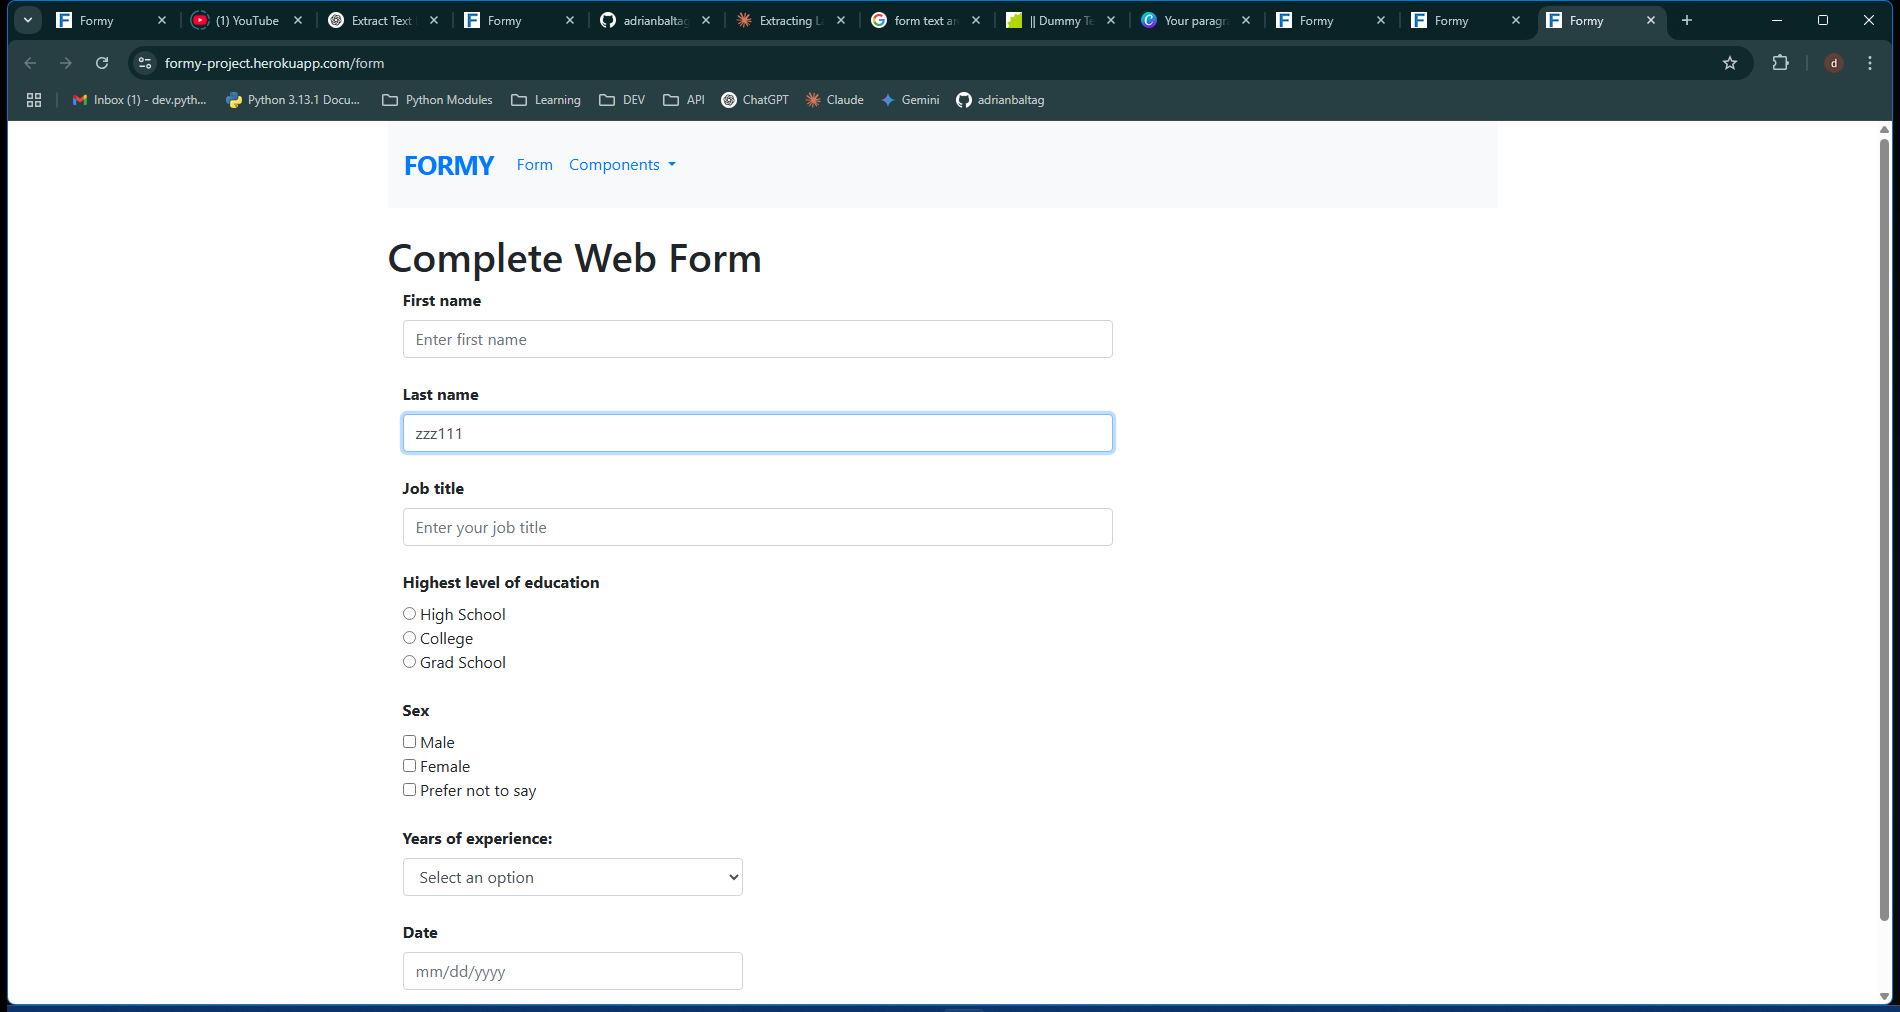
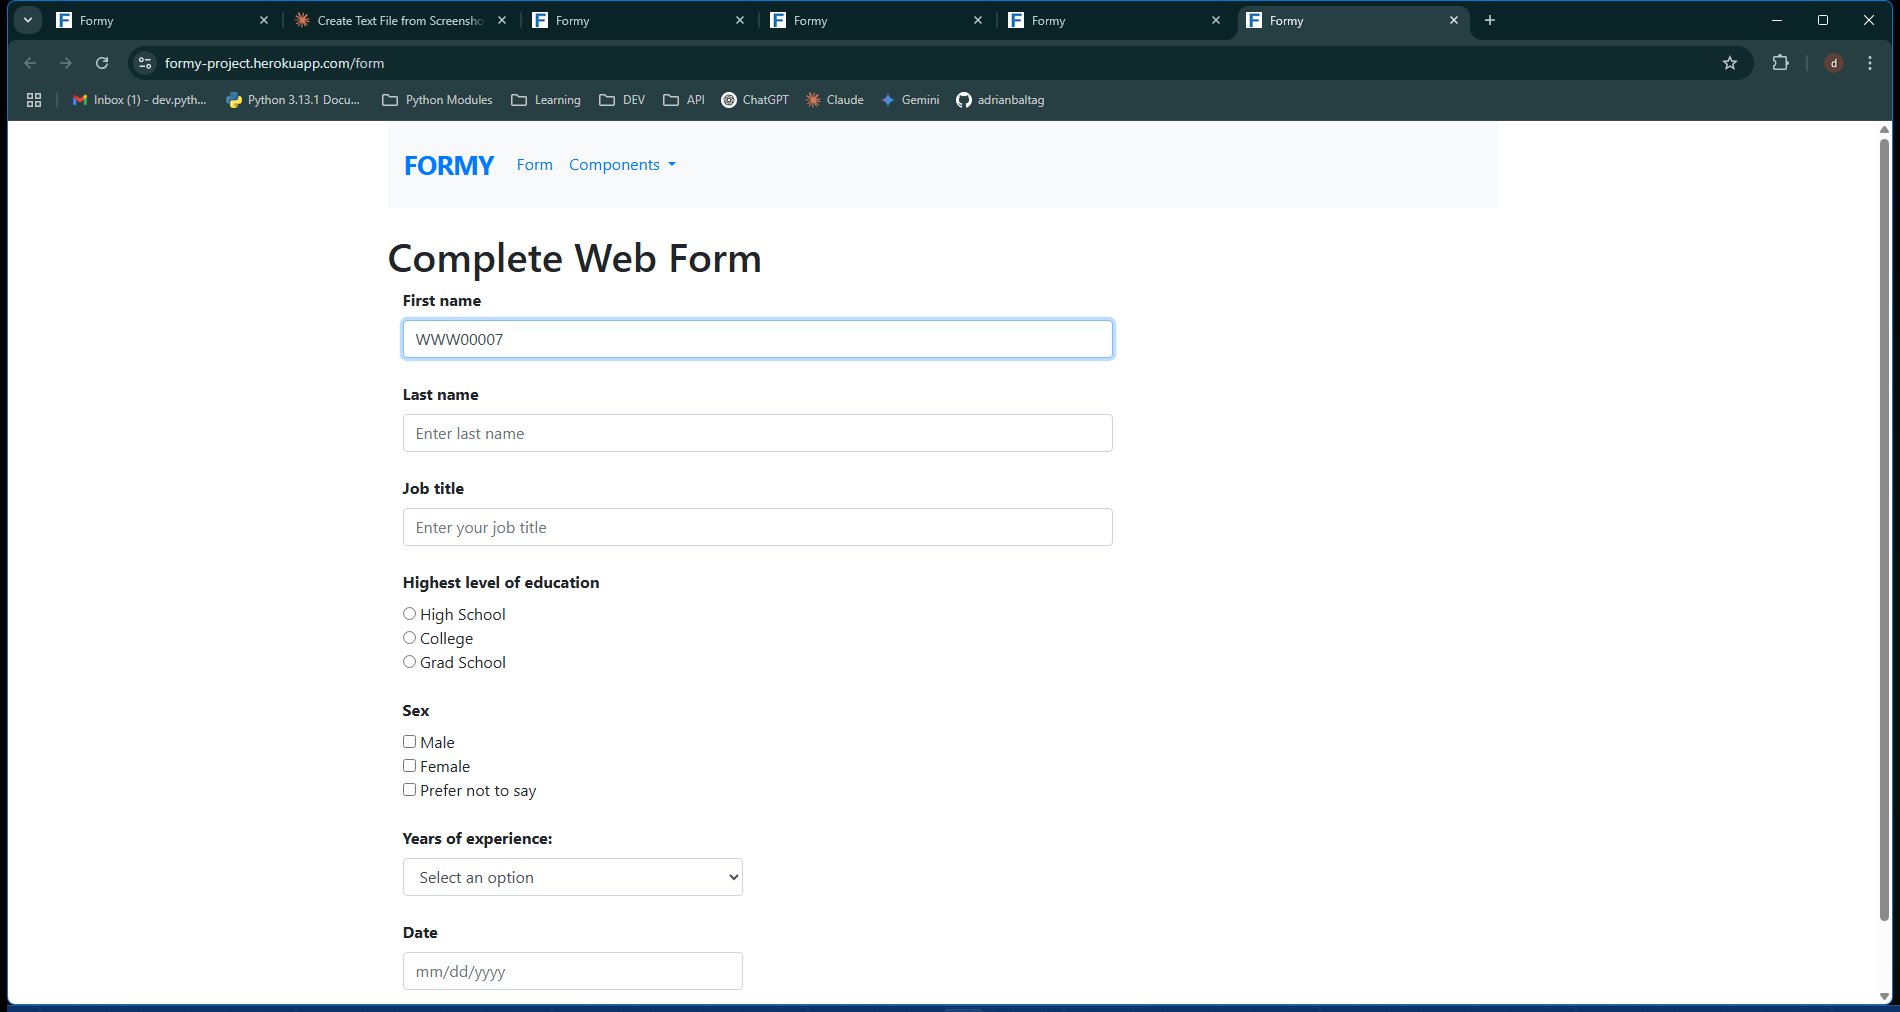
added save_dict_to_text, updated TODO.txt

diff --git a/src/my_package/utils/save_dict_to_text.py b/src/my_package/utils/save_dict_to_text.py
@@ -1,0 +1,152 @@
+# import logging
+# import os
+# from datetime import datetime
+
+
+# def save_dict_to_text(extracted_dict, filename=None):
+#     """
+#     Saves the extracted dictionary data to a text file in the txt_data folder on desktop.
+
+#     Args:
+#         extracted_dict (dict): Dictionary containing extracted data from read_image function
+#         filename (str, optional): Name for the text file. If None, uses timestamp.
+
+#     Returns:
+#         str: Path to the created text file or None if operation failed
+#     """
+#     # Define the keys to extract in the correct order
+#     keys = ["First name", "Last name", "Job title"]
+
+#     # Check if the dictionary has the required keys
+#     if not all(key in extracted_dict for key in keys):
+#         missing_keys = [key for key in keys if key not in extracted_dict]
+#         logging.error(f"Dictionary is missing required keys: {missing_keys}")
+#         return None
+
+#     # Create the txt_data folder on desktop if it doesn't exist
+#     desktop_path = os.path.join(os.path.expanduser("~"), "Desktop")
+#     txt_data_path = os.path.join(desktop_path, "txt_data")
+
+#     try:
+#         if not os.path.exists(txt_data_path):
+#             os.makedirs(txt_data_path)
+#             logging.info(f"Created directory: {txt_data_path}")
+#     except OSError as e:
+#         logging.error(f"Failed to create directory {txt_data_path}. Error: {e}")
+#         return None
+
+#     # Generate filename if not provided
+#     if filename is None:
+#         timestamp = datetime.now().strftime("%Y%m%d_%H%M%S")
+#         filename = f"extracted_data_{timestamp}.txt"
+
+#     # Ensure filename has .txt extension
+#     if not filename.lower().endswith(".txt"):
+#         filename += ".txt"
+
+#     file_path = os.path.join(txt_data_path, filename)
+
+#     # Write the data to the text file
+#     try:
+#         with open(file_path, "w", encoding="utf-8") as f:
+#             # Write each key's value on a new line
+#             for key in keys:
+#                 f.write(f"{extracted_dict[key]}\n")
+
+#             # Add the separator pattern after job title
+#             f.write("============= ===========\n")
+
+#         logging.info(f"Successfully saved data to {file_path}")
+#         return file_path
+
+#     except Exception as e:
+#         logging.error(f"Failed to write data to file {file_path}. Error: {e}")
+#         return None
+
+
+# if __name__ == "__main__":
+#     # Set up logging
+#     logging.basicConfig(level=logging.INFO)
+
+#     # save_dict_to_text(res=read_image(0, "First name", "Last name", "Job title"))
+#     # Example usage
+
+import logging
+import os
+from datetime import datetime
+
+
+def save_dict_to_text(extracted_dict):
+    """
+    Saves only the values from the extracted dictionary to a text file in the txt_data folder on desktop.
+    Uses the 'First name' value from the dictionary as the filename.
+
+    Args:
+        extracted_dict (dict): Dictionary containing extracted data from read_image function
+
+    Returns:
+        str: Path to the created text file or None if operation failed
+    """
+    # Define the keys to extract in the correct order
+    keys = ["First name", "Last name", "Job title"]
+
+    # Check if the dictionary has the required keys
+    if not all(key in extracted_dict for key in keys):
+        missing_keys = [key for key in keys if key not in extracted_dict]
+        logging.error(f"Dictionary is missing required keys: {missing_keys}")
+        return None
+
+    # Create the txt_data folder on desktop if it doesn't exist
+    desktop_path = os.path.join(os.path.expanduser("~"), "Desktop")
+    txt_data_path = os.path.join(desktop_path, "txt_data")
+
+    try:
+        if not os.path.exists(txt_data_path):
+            os.makedirs(txt_data_path)
+            logging.info(f"Created directory: {txt_data_path}")
+    except OSError as e:
+        logging.error(f"Failed to create directory {txt_data_path}. Error: {e}")
+        return None
+
+    # Use the "First name" value as the filename
+    filename = extracted_dict["First name"].strip()
+
+    # Handle empty or invalid filenames
+    if not filename:
+        timestamp = datetime.now().strftime("%Y%m%d_%H%M%S")
+        filename = f"extracted_data_{timestamp}"
+        logging.warning("First name is empty, using timestamp instead")
+
+    # Remove any characters that might be invalid in a filename
+    filename = "".join(c for c in filename if c.isalnum() or c in " _-")
+
+    # Ensure filename has .txt extension
+    if not filename.lower().endswith(".txt"):
+        filename += ".txt"
+
+    file_path = os.path.join(txt_data_path, filename)
+
+    # Write the data to the text file
+    try:
+        with open(file_path, "w", encoding="utf-8") as f:
+            # Write only the values, each on a new line
+            for key in keys:
+                f.write(f"{extracted_dict[key]}\n")
+
+            # Add the separator pattern after job title
+            f.write("========= ============================\n")
+
+        # Print notification
+        print(f"Text file has been created successfully: {file_path}")
+
+        logging.info(f"Successfully saved data to {file_path}")
+        return file_path
+
+    except Exception as e:
+        logging.error(f"Failed to write data to file {file_path}. Error: {e}")
+        return None
+
+
+if __name__ == "__main__":
+    # Set up logging
+    logging.basicConfig(level=logging.INFO)

diff --git a/src/my_package/apps/remedy.py b/src/my_package/apps/remedy.py
@@ -9,6 +9,7 @@ from my_package.utils.capture_full_screenshot import capture_full_screenshot
 from my_package.utils.config import URL_FORMY
 from my_package.utils.open_app import open_app
 from my_package.utils.read_image import read_image
+from my_package.utils.save_dict_to_text import save_dict_to_text
 from my_package.utils.user_input import user_input
 
 
@@ -25,7 +26,7 @@ def remedy():
     time.sleep(1)  # Wait for the form to load
 
     capture_and_click(
-        "Formy", "screenshot", "Enter last name"
+        "Formy", "screenshot", "Enter first name"
     )  # Capture the screenshot and click on the input field
 
     time.sleep(1)  # Wait for the screenshot to be taken
@@ -39,7 +40,9 @@ def remedy():
     res = read_image(
         0, "First name", "Last name", "Job title"
     )  # Read the image and extract text
-    print(res)  # Print the extracted text
+    # print(res)  # Print the extracted text
+    time.sleep(1)  # Wait for the image to be processed
+    save_dict_to_text(res)  # Save the extracted text to a text file on the desktop
 
 
 if __name__ == "__main__":

diff --git a/src/my_package/utils/__init__.py b/src/my_package/utils/__init__.py
@@ -8,6 +8,7 @@ from .config import URL_FORMY, URL_GOOGLE, URL_YOUTUBE
 from .gpu_checkup import gpu_checkup
 from .open_app import open_app
 from .read_image import read_image
+from .save_dict_to_text import save_dict_to_text
 from .user_input import user_input
 
 __all__ = [
@@ -20,4 +21,5 @@ __all__ = [
     "user_input",
     "capture_full_screenshot",
     "read_image",
+    "save_dict_to_text",
 ]

diff --git a/src/my_package/utils/read_image.py b/src/my_package/utils/read_image.py
@@ -441,5 +441,5 @@ def read_image(img_index, *keys):
 
 if __name__ == "__main__":
     # Example usage: Reads text from the first image in the images folder
-    result = read_image(2, "First name", "Last name", "Job title")
+    result = read_image(3, "First name", "Last name", "Job title")
     print(result)
